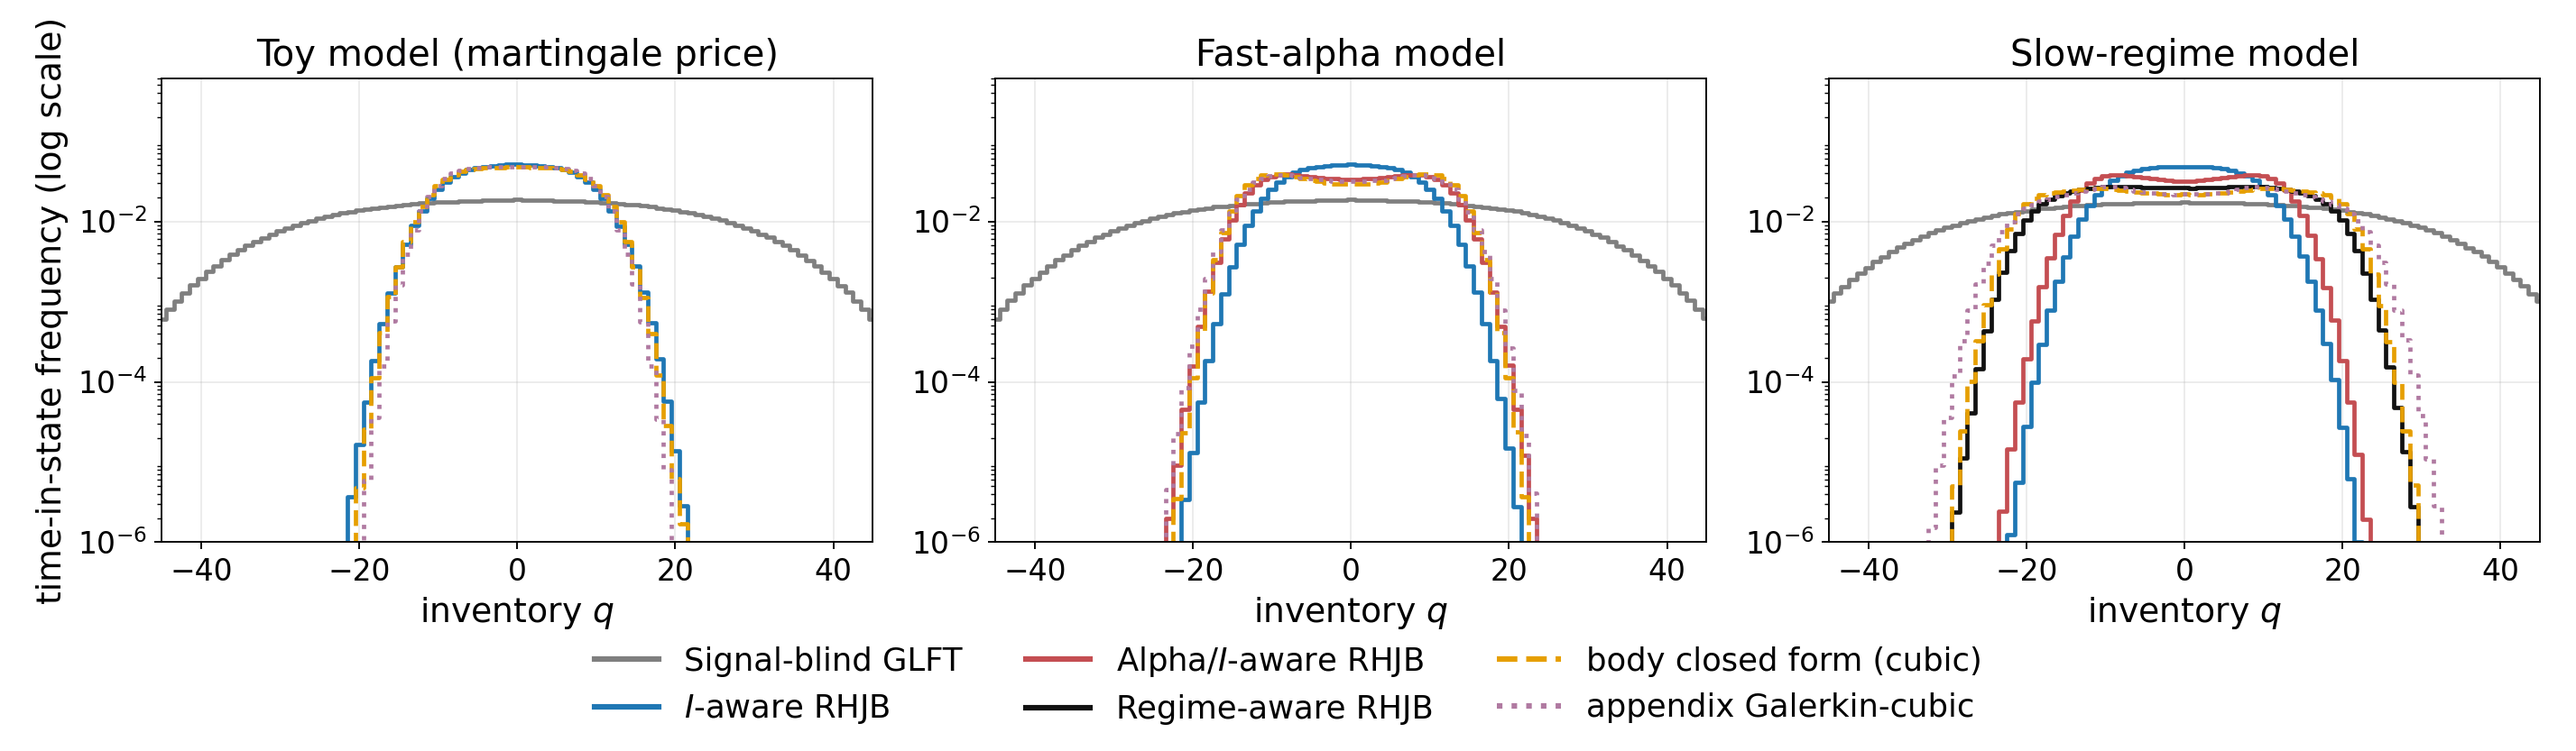
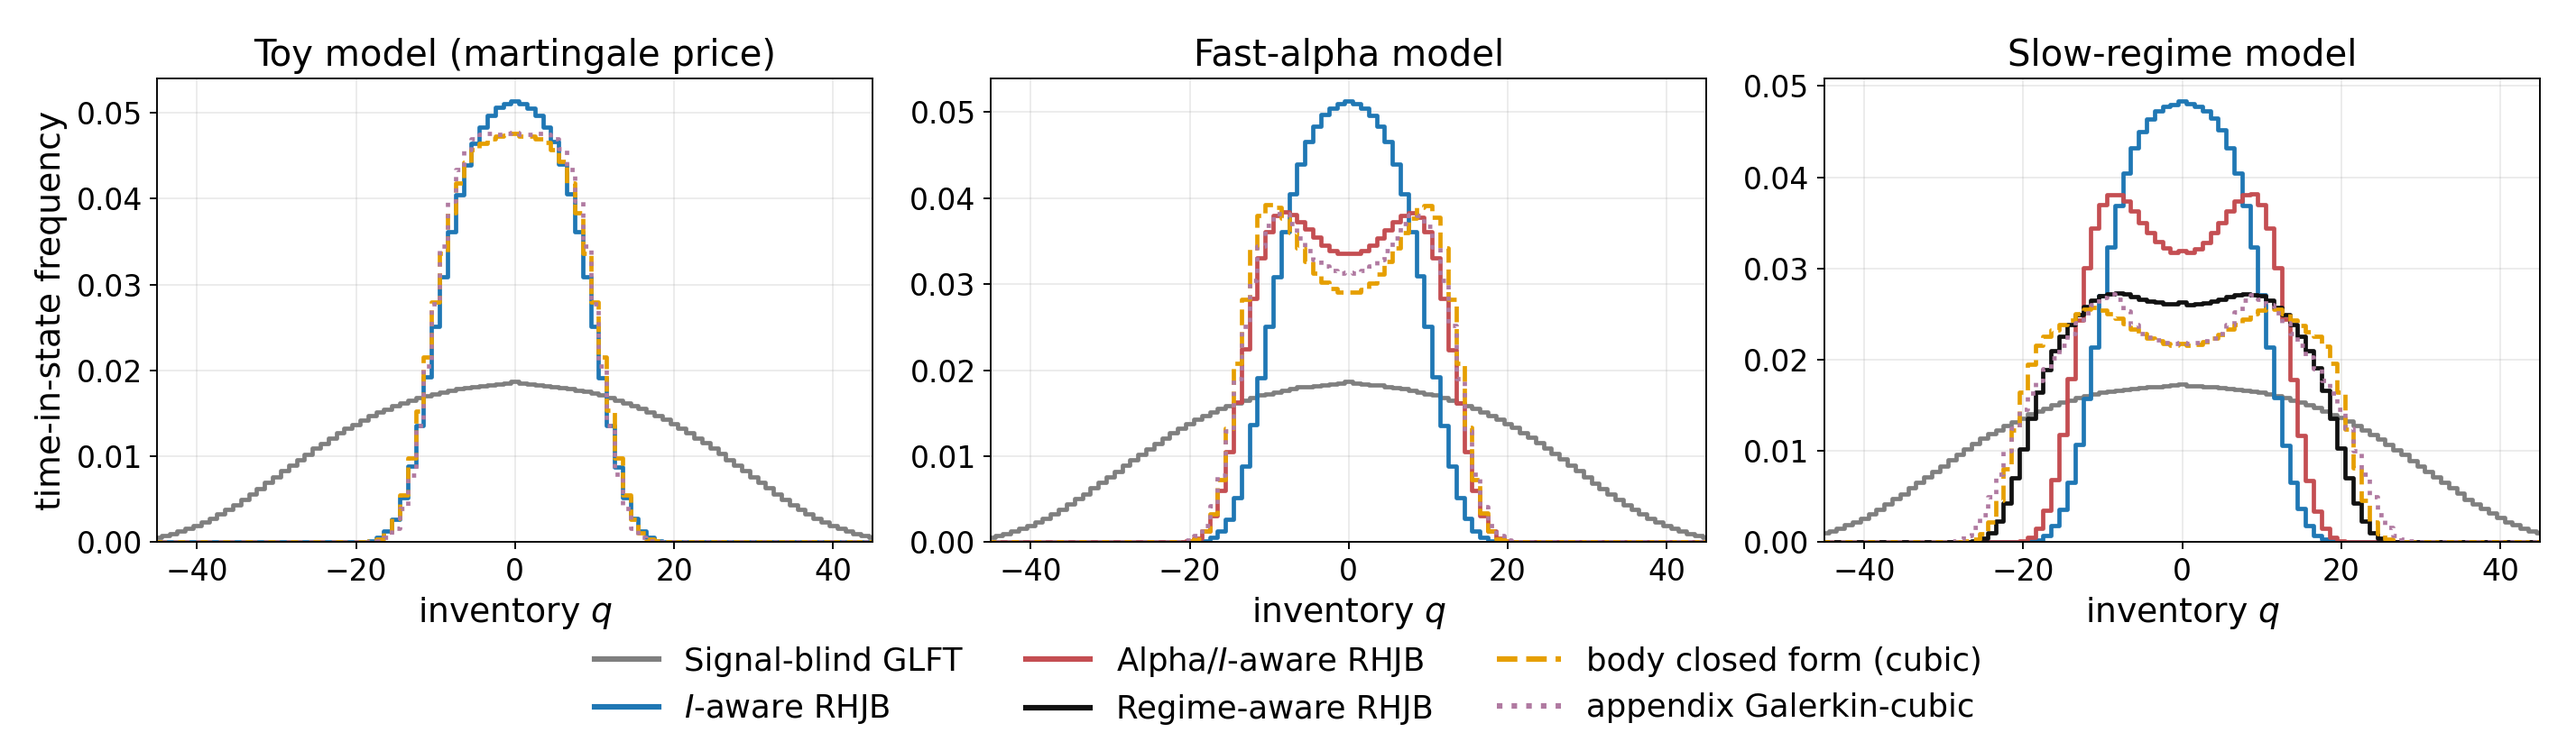
distributions: linear inventory axis restores the bimodality the log scale hid
Comparing against the engines' own figures showed the log scale flattened a
real feature into a plateau: the alpha-using policies are bimodal, with modes
near +-8 (Alpha/I-aware) to +-11 (body cubic) and a valley-to-peak ratio of
0.74 to 0.96. On a six-decade log axis a 26% dip is invisible. Figure 15 now
uses a linear frequency axis, which keeps both the benchmark's breadth and the
bimodality, matching the pattern of the per-policy panels the engines produce.

The caption now reports the mechanism: all four toy densities peak at q=0,
since the martingale price carries no drift reward, and the bimodality appears
exactly when q*alphabar(i) enters. The toy Galerkin's +-3 wobble is numerical
noise (valley/peak = 1.0000) and is not claimed.

diff --git a/paper/main.tex b/paper/main.tex
@@ -2720,18 +2720,21 @@ certainty equivalent falls to \(-5476\).}
 \begin{figure}[htbp]
 \centering
 \includegraphics[width=\linewidth]{lifetime_inventory_distributions.png}
-\caption{Inventory over the simulated lifetime, pooled over paths and times, on
-a log frequency scale: the \(\E|Q_t|\) and \(Q^{\rm life}_{.01},Q^{\rm
-life}_{.99}\) columns of Tables~\ref{tab:toy_summary},
-\ref{tab:alpha_summary} and~\ref{tab:regime_summary} as full distributions.
-The signal-blind benchmark spreads almost flat across \(\pm40\) and is the only
-policy that approaches the \(\pm60\) grid bound, while every state-dependent
-policy concentrates near zero.  Within the regime study the progressive
-widening from the \(I\)-aware RHJB (\(\E|Q_t|=5.7\)) through the
-Alpha/\(I\)-aware RHJB (\(7.4\)) to the regime-aware RHJB (\(9.7\)) and the two
-closed forms (\(10.8\)) is the deliberate directional inventory of
-Remark~\ref{rem:why_carry_inventory}; the same widening, from \(5.5\) to
-\(7.2\), follows the drift reward in the fast-alpha panel.}
+\caption{Inventory over the simulated lifetime, pooled over paths and times:
+the \(\E|Q_t|\) and \(Q^{\rm life}_{.01},Q^{\rm life}_{.99}\) columns of
+Tables~\ref{tab:toy_summary}, \ref{tab:alpha_summary}
+and~\ref{tab:regime_summary} as full distributions.  The signal-blind
+benchmark is the broad, flat hump spanning \(\pm45\), the only policy that
+approaches the \(\pm60\) grid bound, while every state-dependent policy
+concentrates near zero.  The drift reward is what splits the distribution: in
+the martingale toy model all four densities peak at \(q=0\), whereas once
+\(q\alphabar(i)\) enters the alpha-using policies turn \emph{bimodal}, with
+modes near \(\pm8\) for the Alpha/\(I\)-aware RHJB and \(\pm10\) to
+\(\pm11\) for the body cubic and a dip of \(4\%\)--\(26\%\) at the origin.
+That is the deliberate directional inventory of
+Remark~\ref{rem:why_carry_inventory} seen as a distribution rather than as the
+single number \(\E|Q_t|\), which widens from \(5.5\) to \(7.2\) in the
+fast-alpha study and from \(5.7\) to \(10.8\) in the regime study.}
 \label{fig:lifetime_inventory_distributions}
 \end{figure}
 

diff --git a/repro/distribution_figs.py b/repro/distribution_figs.py
@@ -109,14 +109,14 @@ ax = np.atleast_1d(ax)
 for a, (title, sty, _, (q, inv)) in zip(ax, STUDIES):
     for lab, p in inv.items():
         col, ls = sty[lab]
-        a.step(q, np.where(p > 0, p, np.nan), where="mid", lw=2.0, ls=ls, color=col, label=lab)
-    a.set_yscale("log"); a.set_ylim(1e-6, 0.6); a.set_xlim(-45, 45)
-    a.set_yticks([1e-6, 1e-4, 1e-2])
+        a.step(q, p, where="mid", lw=2.0, ls=ls, color=col, label=lab)
+    a.set_xlim(-45, 45)      # linear: keeps the benchmark's breadth AND the bimodality of the
+    a.set_ylim(0, None)      # signal-using policies, which a log scale flattens into a plateau
     a.set_title(title); a.set_xlabel("inventory $q$")
     print(f"  [{title}] percentis do inventario")
     for lab, p in inv.items():
         c = np.cumsum(p) / p.sum()
         print(f"    {lab:28s} p01 {q[np.searchsorted(c,0.01)]:4d}  p99 {q[np.searchsorted(c,0.99)]:4d}  E|q| {np.sum(np.abs(q)*p)/p.sum():6.2f}")
-ax[0].set_ylabel("time-in-state frequency (log scale)")
+ax[0].set_ylabel("time-in-state frequency")
 shared_legend(fig); fig.tight_layout(rect=(0, 0.11, 1, 1)); fig.savefig(OUT / "lifetime_inventory_distributions.png", dpi=170)
 print("wrote", OUT / "lifetime_inventory_distributions.png")
